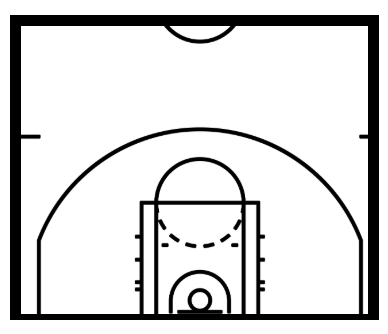
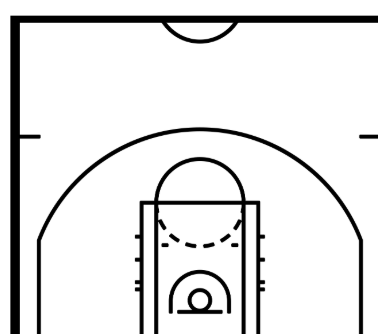
Update drill diagram builder and preview components
Replit-Commit-Author: Agent

Changed region(s): [[0.0, 0.0599, 0.9897, 1.0]]

diff --git a/client/src/components/drill-diagram-builder.tsx b/client/src/components/drill-diagram-builder.tsx
@@ -48,6 +48,13 @@ const toolOptions: { type: DrillDiagramElementType; label: string; hint: string 
 const clamp = (value: number, min: number, max: number) =>
   Math.min(max, Math.max(min, value));
 
+const COURT_WIDTH = 388;
+const COURT_HEIGHT = 334;
+const COURT_VIEW_WIDTH = 462;
+const COURT_VIEW_HEIGHT = 398;
+const COURT_OFFSET_X = 37;
+const COURT_OFFSET_Y = 32;
+
 type ArrowPoints = { startX: number; startY: number; controlX: number; controlY: number; endX: number; endY: number };
 
 function getArrowPoints(element: DrillDiagramElement): ArrowPoints {
@@ -283,17 +290,19 @@ export function DrillDiagramBuilder({ value, onChange }: DrillDiagramBuilderProp
     setSelectedId(element.id);
   };
 
-  const eventPosition = (event: PointerEvent<SVGSVGElement>) => {
-    const bounds = event.currentTarget.getBoundingClientRect();
-    const x = ((event.clientX - bounds.left) / bounds.width) * 388;
-    const y = ((event.clientY - bounds.top) / bounds.height) * 334;
+  const positionFromClient = (clientX: number, clientY: number, bounds: DOMRect) => {
+    const x = ((clientX - bounds.left) / bounds.width) * COURT_VIEW_WIDTH - COURT_OFFSET_X;
+    const y = ((clientY - bounds.top) / bounds.height) * COURT_VIEW_HEIGHT - COURT_OFFSET_Y;
     return {
-      x: (x / 388) * 100,
-      y: (y / 334) * 100,
+      x: (x / COURT_WIDTH) * 100,
+      y: (y / COURT_HEIGHT) * 100,
       rawX: x,
       rawY: y,
     };
   };
+
+  const eventPosition = (event: PointerEvent<SVGSVGElement>) =>
+    positionFromClient(event.clientX, event.clientY, event.currentTarget.getBoundingClientRect());
 
   const handlePointerMove = (event: PointerEvent<SVGSVGElement>) => {
     if (!dragRef.current || dragRef.current.pointerId !== event.pointerId) return;
@@ -351,11 +360,10 @@ export function DrillDiagramBuilder({ value, onChange }: DrillDiagramBuilderProp
     setSelectedId(id);
     const element = diagram.elements.find((item) => item.id === id);
     const bounds = svgRef.current?.getBoundingClientRect();
-    const startPointerX = bounds ? ((event.clientX - bounds.left) / bounds.width) * 100 : 0;
-    const startPointerY = bounds ? ((event.clientY - bounds.top) / bounds.height) * 100 : 0;
+    const position = bounds ? positionFromClient(event.clientX, event.clientY, bounds) : { x: 0, y: 0 };
     dragRef.current = {
       id, pointerId: event.pointerId, mode: "move", startScale: 1, startDistance: 1,
-      startAngle: 0, startPointerAngle: 0, startPointerX, startPointerY,
+      startAngle: 0, startPointerAngle: 0, startPointerX: position.x, startPointerY: position.y,
       ...(element?.type === "arrow" ? { startPoints: getArrowPoints(element) } : {}),
     };
     svgRef.current?.setPointerCapture(event.pointerId);
@@ -368,8 +376,9 @@ export function DrillDiagramBuilder({ value, onChange }: DrillDiagramBuilderProp
     if (!element) return;
     const bounds = svgRef.current?.getBoundingClientRect();
     if (!bounds) return;
-    const pointerX = ((event.clientX - bounds.left) / bounds.width) * 388;
-    const pointerY = ((event.clientY - bounds.top) / bounds.height) * 334;
+    const position = positionFromClient(event.clientX, event.clientY, bounds);
+    const pointerX = position.rawX;
+    const pointerY = position.rawY;
     const centerX = element.x * 3.88;
     const centerY = element.y * 3.34;
     dragRef.current = {
@@ -403,8 +412,8 @@ export function DrillDiagramBuilder({ value, onChange }: DrillDiagramBuilderProp
       startDistance: 1,
       startAngle: 0,
       startPointerAngle: 0,
-      startPointerX: ((event.clientX - bounds.left) / bounds.width) * 100,
-      startPointerY: ((event.clientY - bounds.top) / bounds.height) * 100,
+      startPointerX: positionFromClient(event.clientX, event.clientY, bounds).x,
+      startPointerY: positionFromClient(event.clientX, event.clientY, bounds).y,
       startPoints: getArrowPoints(element),
     };
     setSelectedId(id);
@@ -477,12 +486,12 @@ export function DrillDiagramBuilder({ value, onChange }: DrillDiagramBuilderProp
       <div className="relative flex min-h-0 min-w-0 flex-1 flex-col">
       <div className="min-h-0 min-w-0 flex-1 overflow-auto px-2 py-2 sm:px-4 sm:py-3">
         <div
-          className="relative mx-auto aspect-[194/167] max-w-full overflow-visible bg-white"
+          className="relative mx-auto aspect-[231/199] max-w-full overflow-visible bg-white"
           style={{ width: "min(100%, 900px, calc(116dvh - 255px))" }}
         >
           <svg
             ref={svgRef}
-            viewBox="0 0 388 334"
+            viewBox={`0 0 ${COURT_VIEW_WIDTH} ${COURT_VIEW_HEIGHT}`}
             preserveAspectRatio="xMidYMid meet"
             role="group"
             aria-label="Basketball half court. Use the marker controls to add symbols, then drag to reposition."
@@ -495,23 +504,31 @@ export function DrillDiagramBuilder({ value, onChange }: DrillDiagramBuilderProp
             }}
             style={{ touchAction: "none" }}
           >
-            <image href={courtAsset} x="0" y="0" width="388" height="334" preserveAspectRatio="none" />
-            {diagram.elements.map((element) => (
-              <DiagramMark
-                key={element.id}
-                element={element}
-                selected={selected?.id === element.id}
-                onPointerDown={(event) => handleMarkerPointerDown(element.id, event)}
-                onHandlePointerDown={(mode, event) => handleTransformPointerDown(element.id, mode, event)}
-                onArrowPointPointerDown={(point, event) => handleArrowPointPointerDown(element.id, point, event)}
-                onKeyDown={(event) => handleMarkerKeyDown(element.id, event)}
-              />
-            ))}
+            <g transform={`translate(${COURT_OFFSET_X} ${COURT_OFFSET_Y})`}>
+              <image href={courtAsset} x="0" y="0" width={COURT_WIDTH} height={COURT_HEIGHT} preserveAspectRatio="xMidYMid meet" />
+              {diagram.elements.map((element) => (
+                <DiagramMark
+                  key={element.id}
+                  element={element}
+                  selected={selected?.id === element.id}
+                  onPointerDown={(event) => handleMarkerPointerDown(element.id, event)}
+                  onHandlePointerDown={(mode, event) => handleTransformPointerDown(element.id, mode, event)}
+                  onArrowPointPointerDown={(point, event) => handleArrowPointPointerDown(element.id, point, event)}
+                  onKeyDown={(event) => handleMarkerKeyDown(element.id, event)}
+                />
+              ))}
+            </g>
           </svg>
           {selected?.type === "shot" && (
             <div
               className="absolute z-50 -translate-x-1/2 -translate-y-1/2 rounded-full bg-[#171717]"
-              style={{ left: `${selected.x}%`, top: `${selected.y}%`, width: 28, height: 28, pointerEvents: "auto" }}
+              style={{
+                left: `${((COURT_OFFSET_X + selected.x * 3.88) / COURT_VIEW_WIDTH) * 100}%`,
+                top: `${((COURT_OFFSET_Y + selected.y * 3.34) / COURT_VIEW_HEIGHT) * 100}%`,
+                width: 28,
+                height: 28,
+                pointerEvents: "auto",
+              }}
             >
               <input
                 aria-label="Shot count"

diff --git a/client/src/components/drill-diagram-preview.tsx b/client/src/components/drill-diagram-preview.tsx
@@ -4,6 +4,13 @@ import startAsset from "@/assets/drill-diagram/start-marker.png";
 import screenAsset from "@/assets/drill-diagram/screen-marker.png";
 import coneAsset from "@/assets/drill-diagram/cone-marker.png";
 
+const COURT_WIDTH = 388;
+const COURT_HEIGHT = 334;
+const COURT_VIEW_WIDTH = 462;
+const COURT_VIEW_HEIGHT = 398;
+const COURT_OFFSET_X = 37;
+const COURT_OFFSET_Y = 32;
+
 function DiagramMarker({ element }: { element: DrillDiagramElement }) {
   const x = element.x * 3.88;
   const y = element.y * 3.34;
@@ -54,9 +61,11 @@ function DiagramMarker({ element }: { element: DrillDiagramElement }) {
 
 export function DrillDiagramPreview({ diagramData, className = "" }: { diagramData?: DrillDiagramData | null; className?: string }) {
   return (
-    <svg viewBox="0 0 388 334" preserveAspectRatio="xMidYMid meet" role="img" aria-label="Basketball drill court diagram" className={`block h-full w-full ${className}`}>
-      <image href={courtAsset} x="0" y="0" width="388" height="334" preserveAspectRatio="none" />
-      {diagramData?.elements?.map((element) => <DiagramMarker key={element.id} element={element} />)}
+    <svg viewBox={`0 0 ${COURT_VIEW_WIDTH} ${COURT_VIEW_HEIGHT}`} preserveAspectRatio="xMidYMid meet" role="img" aria-label="Basketball drill court diagram" className={`block h-full w-full ${className}`}>
+      <g transform={`translate(${COURT_OFFSET_X} ${COURT_OFFSET_Y})`}>
+        <image href={courtAsset} x="0" y="0" width={COURT_WIDTH} height={COURT_HEIGHT} preserveAspectRatio="xMidYMid meet" />
+        {diagramData?.elements?.map((element) => <DiagramMarker key={element.id} element={element} />)}
+      </g>
     </svg>
   );
 }
